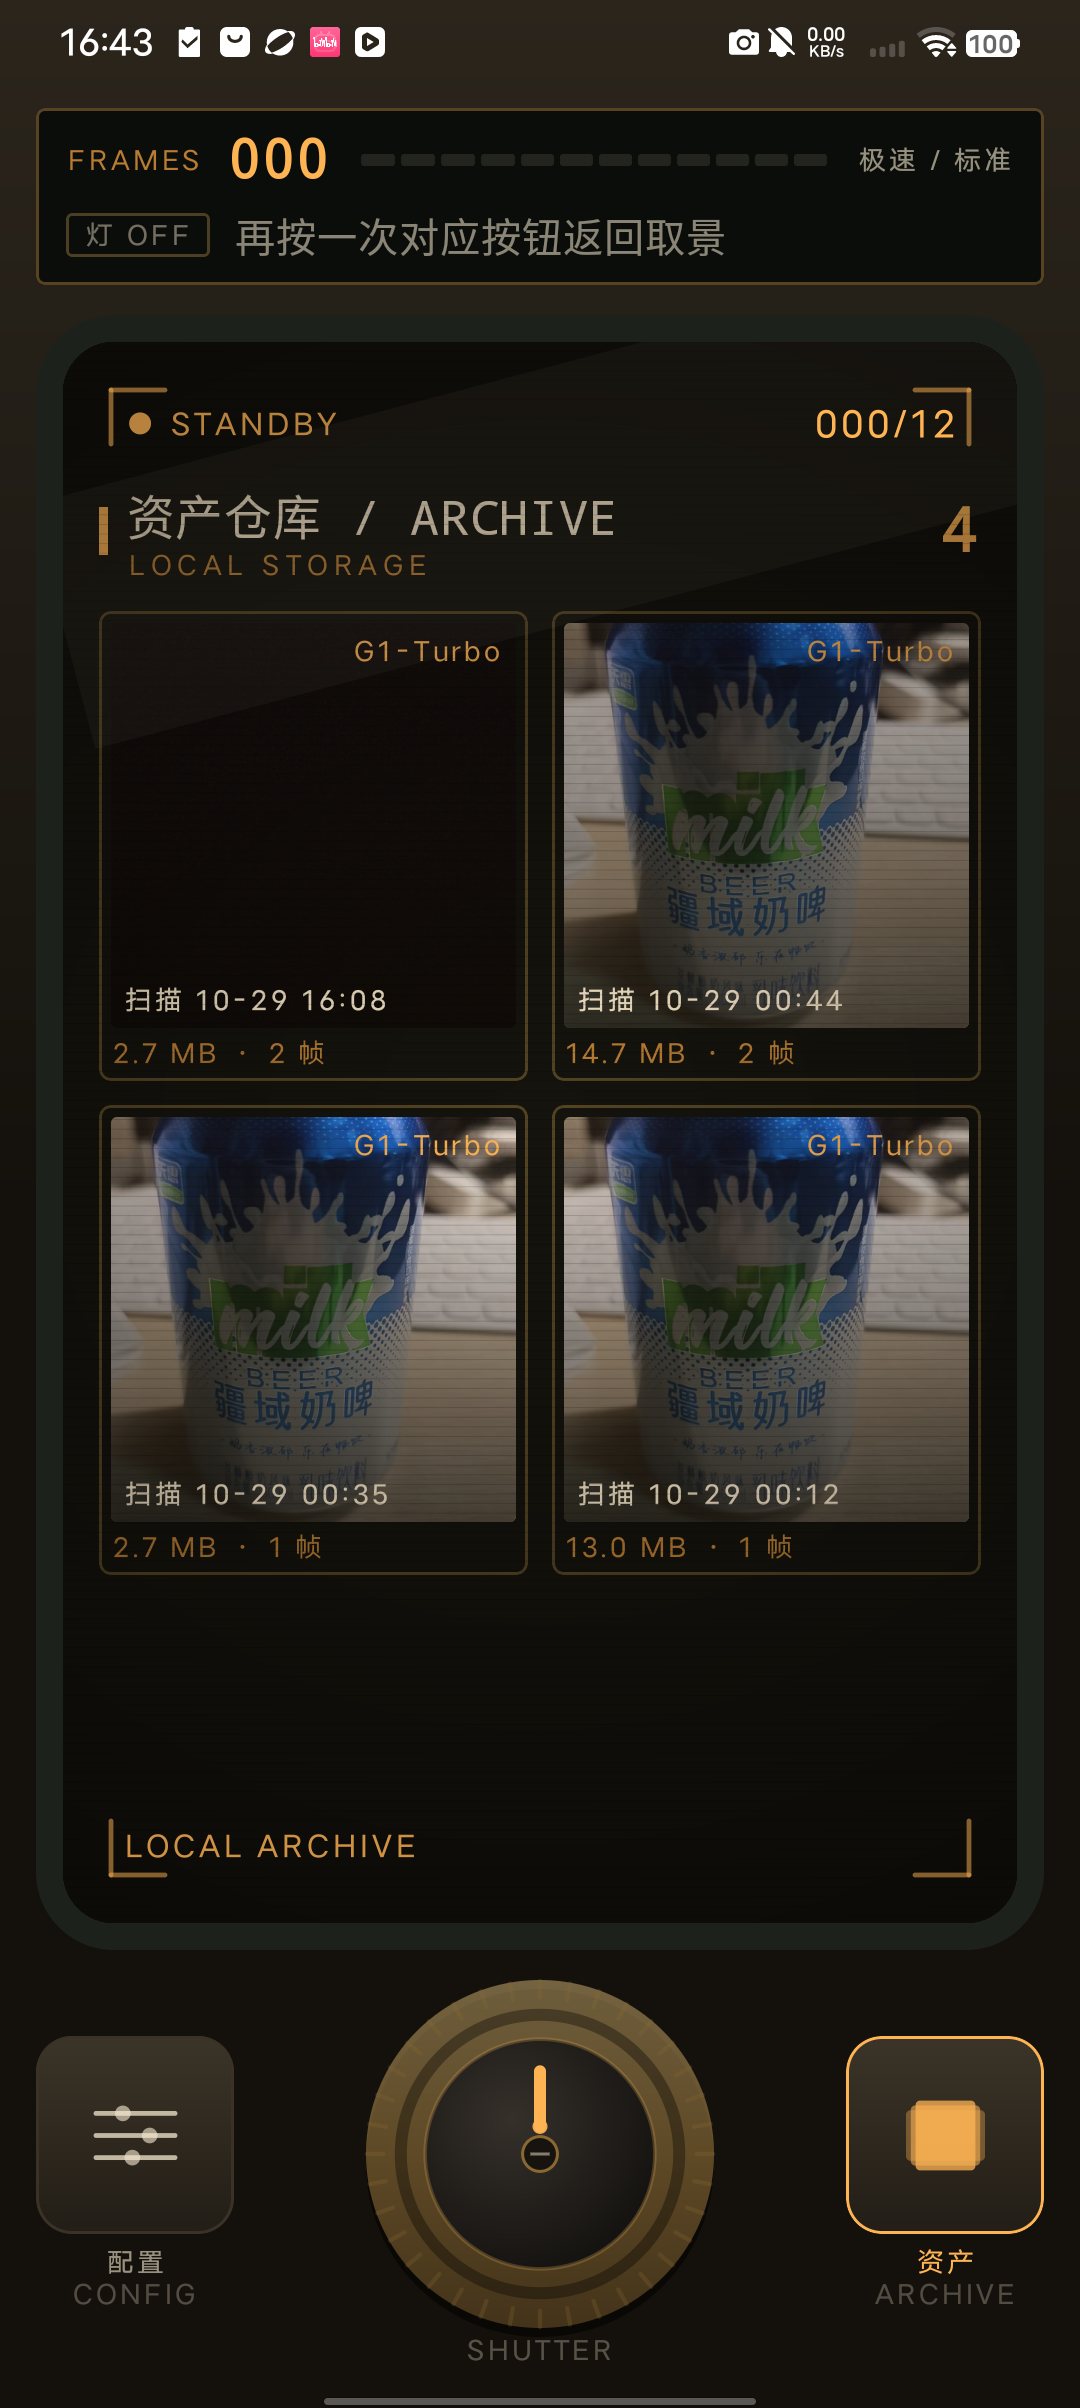
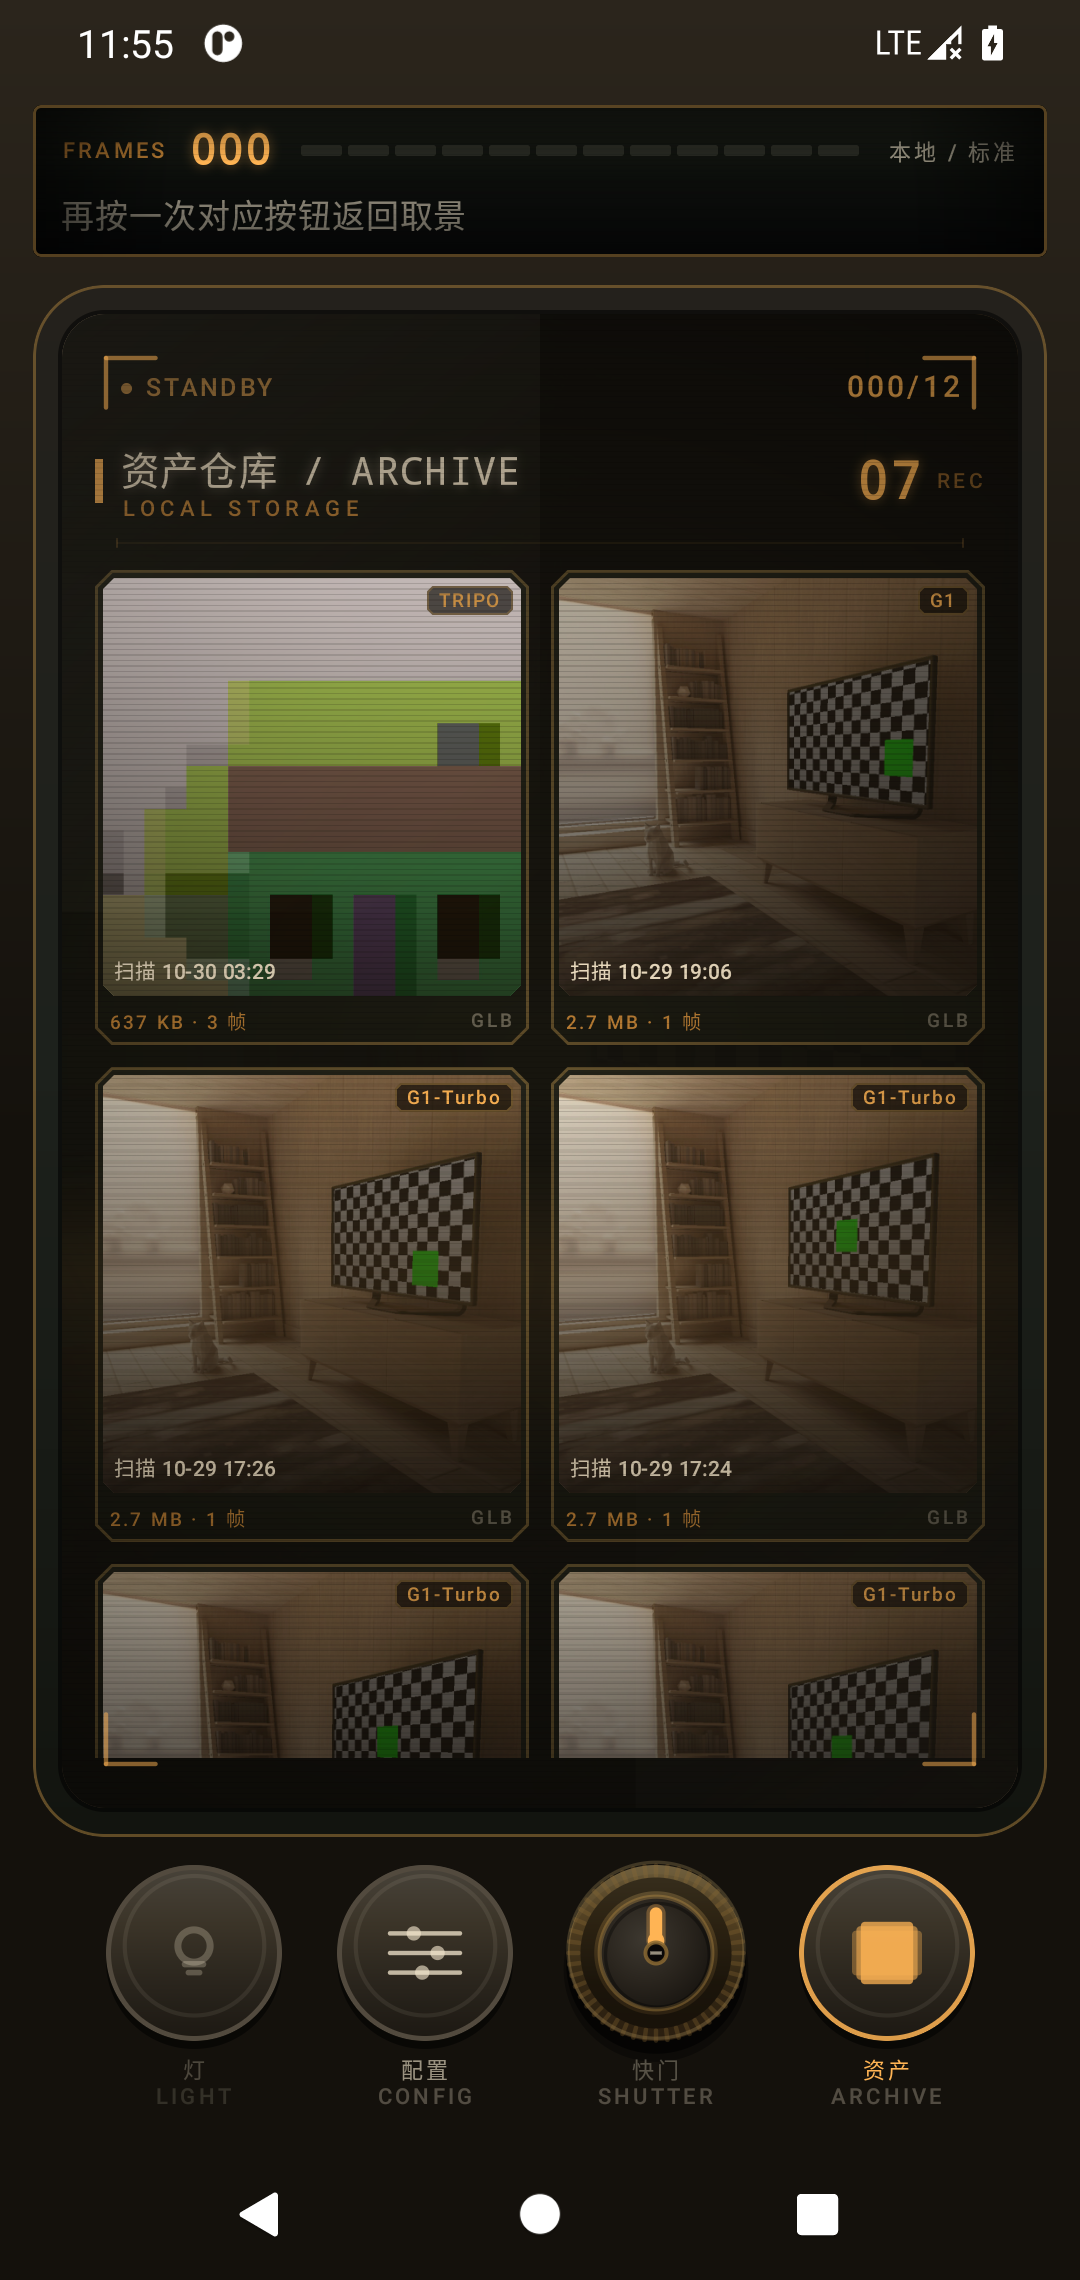
docs: README 改为面向用户，标题只保留「拾物」，四张界面截图换成当前版本

diff --git a/README.md b/README.md
@@ -1,16 +1,10 @@
-# 拾物 · 3D 扫描建模（Android Demo）
+# 拾物
 
-把手机做成一台虚构的**复古未来主义扫描仪**：转动旋钮拍底片，长按旋钮提交，
-群核 Aholo Lux3D 重建几何与 PBR 材质，成品直接在取景屏里预览、分享 GLB。
+把手机变成一台复古扫描仪：对着想留下的东西拍一圈，等一会儿，它就在手机里变成可以转着看、可以导出的 3D 模型。
 
-- 包名：`com.shiwu.scan3d`
-- 最低系统：Android 8.0（API 26），目标 API 35，compileSdk 36
-- 技术栈：Kotlin + Jetpack Compose、CameraX、OkHttp、WebView(`<model-viewer>`)
-- 视觉：炭黑机身 + 米色面板 + 黄铜旋钮 + 琥珀 CRT（无蓝紫配色）
+没有建模软件，没有扫描仪，也不用会画画——会摁快门就行。
 
-## 界面
-
-| 取景 / 扫描 | 参数配置 |
+| 取景 | 参数 |
 |---|---|
 | <img src="docs/screenshots/device.png" width="260"> | <img src="docs/screenshots/config.png" width="260"> |
 
@@ -20,176 +14,99 @@
 
 ---
 
-## 一、跑起来
+## 能做什么
 
-### 1. 用 Android Studio 打开
+- **把实物变成 3D 模型**：手办、杯子、鞋子、摆件、瓶罐、工具、模型零件……能拍全的东西大多能重建。
+- **模型留在手机里**：扫描结果存在本机，随时翻出来转着看。
+- **带走它**：双击放大看细节，一键分享给朋友（GLB 文件），或保存到「下载」文件夹，拿去建模软件、网页、游戏引擎里继续用。
+- **可以连着拍**：提交后取景器立刻复位，不用等上一个模型出结果，就能接着拍下一件。
 
-直接打开本仓库根目录，等待 Gradle Sync 完成即可。
+## 装到手机上
 
-### 2. 命令行构建
+- 系统要求：**Android 8.0 及以上**，**64 位 ARM 机型**（绝大多数 2018 年后的手机都满足）。
+- 安装 `Shiwu.apk`，首次打开请允许**相机**权限（拍底片用）；从相册导入底片时会再要一次**相册**权限。
+
+## 第一次用
+
+打开后会弹一份五页的操作手册，读完就懂。核心就四步：
+
+1. **对准**——把要拍的东西放在取景屏中间。画面里只有一个物体时，它会自动被四角框住；点屏幕上别的东西，可以改选目标。
+2. **拍一圈**——短按旋钮拍一帧，指针每次转 45°。绕物体走一圈，**8–12 帧**最理想，光线均匀、表面有纹理，出来的模型更完整。
+3. **长按提交**——长按旋钮开始成像。画面会闪一下，任务折进「资产」按钮，取景器立刻可以接着拍。
+4. **在资产里等结果**——进度、失败重试、成品预览都在资产页。底片会一直留着，直到模型真的下载到本地。
+
+> 每台"机身"最多存 12 帧底片。单帧也能提交（就是单图模式），但多拍几帧的模型完整得多。
+
+## 机身说明
+
+| 部件 | 怎么用 |
+|---|---|
+| **旋钮 / 快门** | 短按拍一帧，长按提交。外面那圈琥珀色进度环就是已拍帧数。 |
+| **灯 / LIGHT** | 开关手电筒，暗处拍底片用。 |
+| **配置 / CONFIG** | 切到参数页：引擎、精度、区域、演示模式、链路测试、导入底片、操作手册。再按一次返回取景。 |
+| **资产 / ARCHIVE** | 切到资产仓库：正在处理、失败可重试、已完成的模型都在这里，点一下进入 3D 预览。 |
+| **子显示屏** | 顶部那条窄屏：已拍帧数、进度、当前引擎与精度、操作提示。 |
+
+## 让重建成功率高一点
+
+- **光要匀**：自然光或室内均匀照明最好，避免一边强光一边全黑、避免打闪光灯。
+- **背景干净**：物体后面最好没有和它颜色接近的东西。
+- **转着拍**：围着物体走，视角变化大一些，别只在一个角度小幅度挪动。
+- **别拍这些**：透明玻璃、镜面金属、纯色无纹理的平面、会动的物体（宠物、风扇）——这些本来就不容易重建。
+- **贴着拍**：让物体占画面大部分，但别出画面。
+
+## 关于密钥
+
+重建用的是**群核 Aholo Lux3D**，需要一个 API Key：
+
+- 配置页最底下有「**服务舱 / SERVICE BAY**」，可以**在应用内**一站式走完：打开 Lux3D 控制台 → 登录并复制密钥 → 回到应用自动读取剪贴板 → 校验通过后写入本机。
+- 密钥**只保存在你的手机上**，不会上传到任何地方；界面里默认以圆点掩码显示，需要时点「显示」。
+- **没有密钥也能试**：打开「演示模式」，全流程照常走完，只是结果换成内置的示例模型。
+- 生成会占用**你自己账号的额度**：极速引擎（G1-Turbo）约 1 分钟，精细引擎（G1）约 5 分钟，额度与并发以 Lux3D 控制台为准。
+
+## 常见问题
+
+**拍失败了怎么办？**
+底片会保留。资产页里那条失败记录可以直接「重试」，不用重拍。
+
+**模型糊、有破洞、缺一块？**
+多拍几帧（尤其物体背面和底部）、换到光线均匀的地方，或把精度调到「精细」再重试。
+
+**帧数满了？**
+上限 12 帧。拍完就提交，或先在配置页「清空底片」重来。
+
+**手边没网 / 不想花额度？**
+配置页「演示模式」可以完整走一遍流程；也可以把引擎切到「本地」，用机内重建（效果不如云端，但完全离线、不耗额度）。
+
+**能直接用在别的软件里吗？**
+可以。成品是标准 GLB，分享或保存到「下载」后，Blender、网页 `<model-viewer>`、游戏引擎都能直接打开。
+
+## 你的数据
+
+- 底片照片只在**提交时**上传到群核 Aholo 用于重建；不提交就一直在本机。
+- 生成好的模型保存在应用私有目录，只有你导出或分享时才会离开手机。
+- API Key 只存在本机设置里，不随日志外传。
+
+## 已知限制
+
+- 只提供 **64 位 ARM** 版本，老机型与模拟器装不上。
+- 取景时相机常驻，切到面板也仍在运行（为了返回时能立刻拍），耗电会略高。
+- 深色物体紧贴线缆、支架时，自动框选可能把它们连成一片，框会偏大——换个背景或点一下物体主体位置就好。
+- 同一个账号的并发任务有上限（免费额度是 5 个），排队时会给出中文提示。
+
+## 从源码构建
 
 ```bash
 ./gradlew assembleDebug          # Windows: gradlew.bat assembleDebug
 # 产物：app/build/outputs/apk/debug/app-debug.apk
 ```
 
-> 工程路径含中文时需要在 `gradle.properties` 保留 `android.overridePathCheck=true`（已加）。
+API Key 写在 `local.properties` 的 `aholo.api.key=`（该文件已在 `.gitignore` 中，不会进仓库），构建时注入为默认值；也可以在应用内「服务舱」里改。
 
-> **模拟器调试**：MediaPipe 的 x86 原生库在模拟器上会崩，且正式包只带 `arm64-v8a`。
-> 用 `./gradlew assembleDebug -PwithX86 -PnoSubject` 可以产出一个跳过主体分割、带 x86 的调试包，
-> 专门给 Android Studio 的 x86 模拟器验证界面与提交流程；不带参数构建仍是正式 arm64 包。
-
-### 3. 配置 API Key
-
-两个入口，后者覆盖前者：
-
-1. `local.properties` 里的 `aholo.api.key=`（构建时写入 `BuildConfig.DEFAULT_API_KEY`）
-2. 设备面板：配置 → 接口密钥
-
-申请：<https://lux3d.aholo3d.cn/lux3d/home?entry_type=website&auth_action=get_api&from=lux3d&lang=zh_CN>
-
-### 4. 演示模式
-
-配置页打开「演示模式」（或留空 Key），全流程不调接口，用内置 `assets/demo_model.glb`
-走完上传→成像→下载，用于没有额度时演示。
+> 工程路径含中文时依赖 `gradle.properties` 里的 `android.overridePathCheck=true`（已加）。
+>
+> 想用 x86 模拟器调界面，加 `-PwithX86 -PnoSubject` 出一个跳过主体分割的调试包；正式包仍是纯 arm64。
 
 ---
 
-## 二、设备怎么用
-
-| 部件 | 行为 |
-|---|---|
-| 旋钮 SHUTTER | **短按**：转 45° 并拍一帧（闪白 + 震动）；**长按**：按下并提交换能 |
-| 配置 CONFIG | 取景屏切到参数菜单，再按一次返回取景 |
-| 资产 ARCHIVE | 取景屏切到资产仓库，点任意模型进入 3D 预览 |
-| 灯 LIGHT | 独立圆形按钮，开关手电筒（暗光拍底片用） |
-| 计数条 | 当前帧数 / 12 格 LED / 当前引擎与精度 |
-
-**底片容量**：12 帧。单帧也能提交（等价于单图模式），8–12 帧更适合需要完整几何的物体。
-Lux3D 接口本身支持 `imgs` 1–32 张，要放开改 `DeviceState.maxFrames` 与配置页的 `12`。
-
-**配置项**：引擎（G1-Turbo / G1）、精度（12/20/30 万面）、接口区域（国内 / 国际）、
-演示模式、链路测试、导入底片、清空底片、操作引导。左右两个硬件按钮的状态会在
-按钮边框与文字上点亮琥珀色。接口密钥不混在参数列表里，而是放在配置页最底部的
-「服务舱 / SERVICE BAY」：可写入密钥，也可一键跳转 Lux3D 控制台申请。
-
-**新手引导**：首次启动会弹出一份五页操作手册（取景 → 拍摄 → 提交 → 资产 → 密钥），
-看完或跳过会记住；之后可在配置页「操作引导」随时重看。
-
-**主体框**：取景时默认在画面中心取一个种子点，模型只分割“这个点所在的物体”，
-然后画四角框——不识别类别、不输出名称；点取景屏任意位置可以改指定要拍的物体。
-实现是 MediaPipe MagicTouch（`assets/magic_touch.tflite`，6.2 MB）+ CameraX
-`ImageAnalysis`，框只取种子点所在的连通域，点空/点背景不会出框。
-
-
----
-
-## 三、核心流程与 API 映射
-
-```
-旋钮短按 → CameraX 取景 → 写入 files/scans/<session>/frame_*.jpg
-        │
-        ▼
-长按提交 │ 压缩到长边 1280、按 EXIF 摆正          ImagePrep.kt
-        │
-        ▼
-GET  /asset/v1/token                          AholoApi.fetchUploadToken
-POST {globalDomain}/ous/api/v2/single/upload  （每张图单独取一次 token）
-GET  /ous/api/v2/upload/status                轮询到 status=5 拿 url
-        │
-        ▼
-POST /lux3d/v1/generate/img-to-3d/task/create
-     { imgs:[url...], version, faceCount, outputFormat:["glb"], enablePbr:true }
-        │
-        ▼
-GET  /lux3d/v1/generate/task/get?taskid=…
-     d.status: 0/1 继续，3 成功，4 失败，6 取消
-        │
-        ▼
-下载 GLB → files/models/<id>.glb → 取景屏内 model-viewer 预览
-```
-
-要点：
-
-- Lux3D 用 `{f, c, m, d}` 信封，`c=="0"` 只代表请求成功，任务状态看 `d.status`。
-- 结果 URL 约 2 小时过期，App 下载后落地，`library.json` 记录元数据。
-- 上传凭证 `ousToken` 与单次上传任务绑定，所以每张图都要重新取 token。
-- 提交后这批底片交给后台任务，取景器立即复位（帧数/旋钮归零）可以接着拍下一件；
-  提交状态会闪一下并折叠进「资产」按钮。
-- 底片一直保留到 GLB 真正下载到本地：成功后才删除并清理会话目录；失败/中止则保留，
-  在资产页直接「重试」，不用重拍。
-- 资产页同时列出正在处理、失败（可重试 / 放弃）和已完成的扫描。
-
-| 环节 | 文件 |
-|---|---|
-| 网络与 OUS 上传 | `data/AholoApi.kt` |
-| 图片压缩/EXIF | `data/ImagePrep.kt` |
-| 流程编排、面板状态 | `ui/device/DeviceViewModel.kt` |
-| 本地资产库 | `data/AssetStore.kt` |
-| 3D 预览 | `ui/viewer/ModelViewer.kt` + `assets/viewer.html` |
-
----
-
-## 四、目录结构
-
-```
-app/src/main/java/com/shiwu/scan3d/
-├── MainActivity.kt / ShiwuApp.kt
-├── data/
-│   ├── AholoApi.kt          Lux3D + Asset 接口封装（OkHttp）
-│   ├── AssetStore.kt        library.json / models 目录
-│   ├── Gallery.kt           MediaStore 查询与权限
-│   ├── ImagePrep.kt         压缩、EXIF 旋转、MD5
-│   ├── Models.kt            Engine / Quality / AssetItem / JobUi
-│   └── SettingsStore.kt     DataStore 设置
-├── ui/
-│   ├── device/
-│   │   ├── DeviceScreen.kt  机身布局：铭牌 + 取景屏 + 控制面板
-│   │   ├── CrtScreen.kt     玻璃、扫描线、暗角、HUD、快门闪光
-│   │   ├── ShutterKnob.kt   黄铜旋钮（旋转 / 按压 / 帧数环）
-│   │   ├── DevicePanels.kt  配置 / 仓库 / 进度 / 导入 / 预览浮层
-│   │   └── DeviceViewModel.kt
-│   ├── components/          CameraX 预览
-│   ├── theme/Retro.kt       炭黑 + 黄铜 + 琥珀配色与等宽字阶
-│   └── viewer/              WebView + model-viewer（支持深色底）
-└── util/ExportUtils.kt      分享、保存到「下载」
-```
-
----
-
-## 五、设计说明
-
-- **机身**：垂直炭黑渐变，顶部是子显示屏（帧数、LED 进度、引擎/精度与操作提示），
-  下方取景屏，底部是四枚等大的圆形硬件键：灯 / 配置 / 快门 / 资产；注释文字贴在各自的
-  圆钮下方，随按钮一起移动（机身转向时整组文字跟着转）。所有控件都有金属描边与内阴影。
-- **取景屏**：墨绿玻璃 + 黄铜边条 + 扫描线 + 暗角 + 缓慢下扫的亮带；HUD 用等宽字，
-  左上角 STANDBY/REC（拍过之后红色闪烁）与镜头参数，右上角帧计数，四角指示括号。
-- **旋钮**：滚花外环、中央旋帽、琥珀指针，短按弹簧旋转 45°，外圈那一道进度环就是帧数。
-- **面板**：琥珀等宽菜单通过 0.985 透明度的玻璃覆盖在实时取景上，会有轻微透出，
-  像真正的 CRT 叠显。
-- **横竖屏**：只有一套竖向布局（子屏 → 取景 → 控制），横屏时沿用同一结构、控件尺寸略缩，
-  不做重新排版。
-- **预览**：`model-viewer` 采用深色背景，模型自带阴影，可拖动旋转、双指缩放。
-- **图标**：黑金配色——黄铜取景角标 + 金色立方体 + 深色棱线，背景透明（自适应图标）。
-- **主体框**：MediaPipe `tasks-vision:0.10.21` 的 Java SDK 在构造 ROI 时漏了
-  `point.normalized(true)`，归一化坐标会被当成像素坐标落到左上角；App 里直接传
-  像素坐标绕开（见 `SubjectSegmenter.kt`）。输入先放大到长边 1280，让 ROI 点在
-  512 的模型输入里保持可见粗细。
-
----
-
-## 六、已知限制
-
-- 取景层常驻，切到面板后相机仍在运行（为了返回取景时能立即拍摄），耗电略高。
-- WebView 里 `<model-viewer>` 的尺寸依赖 `window.innerHeight`，已用 JS 显式锁定，
-  避免部分 ROM 把 `100vh` 算成 0。
-- API Key 保存在本机 DataStore，未加密；正式产品应放服务端中转。
-- 单账号并发受限（免费 5 个），并发满时返回
-  `GENERATION_CONCURRENCY_LIMIT_EXCEEDED`，App 会给出中文提示。
-- 主体框在测试机（骁龙 480）上单帧约 400 ms（约 2.5 次/秒），快速移动镜头时会滞后；
-  框与框之间有 90 ms 补间，视觉上更连贯，但不改变推理延迟。GPU delegate 在 Adreno 619
-  上初始化会卡住，已回退 CPU。
-- 深色物体紧贴线缆/支架时，mask 可能把它们连成一片，框会偏大；换干净背景或点物体
-  主体位置可以改善。
-- APK 因 MediaPipe native 库（arm64）增大到约 45 MB；如需更小体积可去掉 `tasks-vision`
-  再换更轻的运行时。
+作品说明：「拾物」为**群核 Aholo 全球 3D AI 黑客松**参赛作品，3D 重建能力由 Aholo Lux3D 提供。
